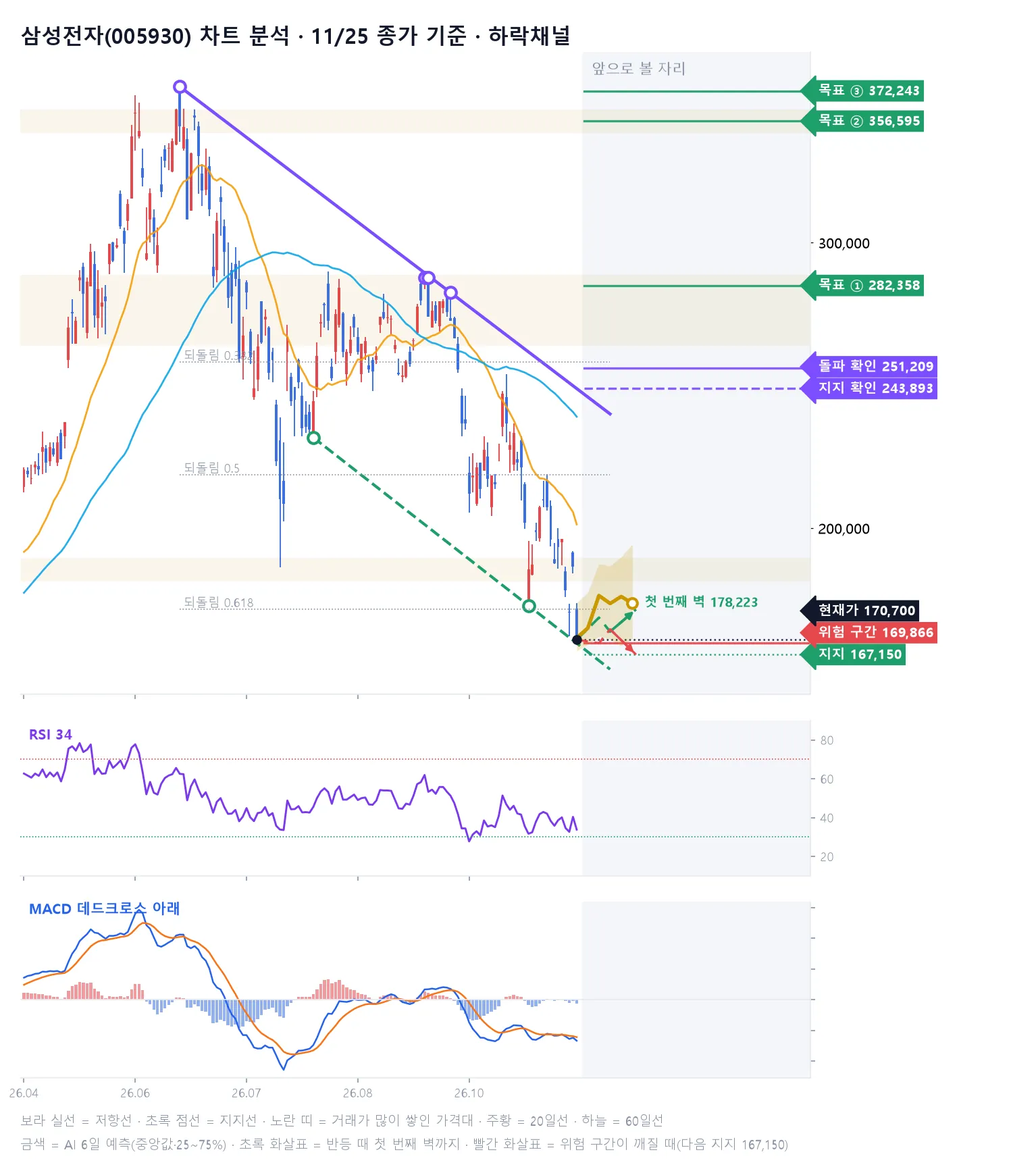
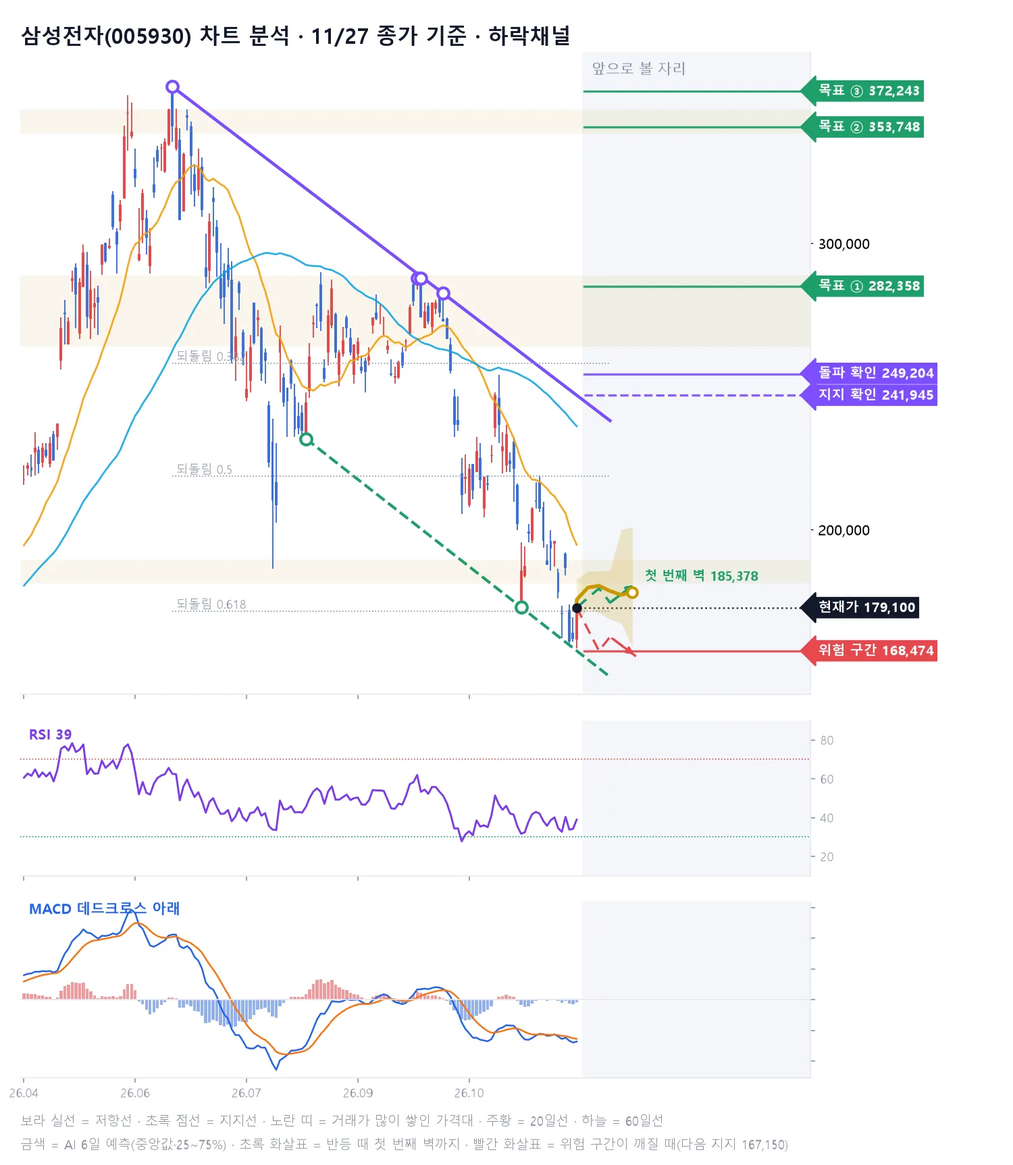
무료 공개 종목 페이지 자동 갱신

diff --git a/s/index.html b/s/index.html
@@ -93,8 +93,8 @@
     <h1>오늘의 무료 공개 종목</h1>
     <p style="margin:0;color:#B7BFD0">유튜브 쇼츠에 나온 종목의 AI 판정과 6일 예측 흐름을 누구나 볼 수 있어요</p>
   </section>
-  <div class="pk-list"><a class="card pk-item" href="BTC/"><span><b>비트코인(BTC)</b><small>코인 · 업비트 · 11/27 예측</small></span><b class="v-mx">혼돈</b></a><a class="card pk-item" href="ETH/"><span><b>이더리움(ETH)</b><small>코인 · 업비트 · 11/26 예측</small></span><b class="v-mx">혼돈</b></a><a class="card pk-item" href="AAVE/"><span><b>에이브(AAVE)</b><small>코인 · 업비트 · 11/28 예측</small></span><b class="v-mx">혼돈</b></a><a class="card pk-item" href="PUMP/"><span><b>펌프펀(PUMP)</b><small>코인 · 업비트 · 11/28 예측</small></span><b class="v-up">상승</b></a><a class="card pk-item" href="ZRO/"><span><b>레이어제로(ZRO)</b><small>코인 · 업비트 · 11/28 예측</small></span><b class="v-up">상승</b></a><a class="card pk-item" href="AVNT/"><span><b>베란타(AVNT)</b><small>코인 · 업비트 · 11/28 예측</small></span><b class="v-mx">혼돈</b></a><a class="card pk-item" href="UNI/"><span><b>유니스왑(UNI)</b><small>코인 · 업비트 · 11/28 예측</small></span><b class="v-up">상승</b></a><a class="card pk-item" href="INTUIT/"><span><b>인튜이트(INTUIT)</b><small>미국 주식 · 11/28 예측</small></span><b class="v-up">상승</b></a><a class="card pk-item" href="MICRON/"><span><b>마이크론(MICRON)</b><small>미국 주식 · 11/28 예측</small></span><b class="v-up">상승</b></a><a class="card pk-item" href="BITMINE/"><span><b>비트마인(BITMINE)</b><small>미국 주식 · 11/28 예측</small></span><b class="v-up">상승</b></a><a class="card pk-item" href="CIRCLE/"><span><b>서클(CIRCLE)</b><small>미국 주식 · 11/28 예측</small></span><b class="v-up">상승</b></a><a class="card pk-item" href="APPLIED_MATERIALS/"><span><b>어플라이드 머티리얼즈(APPLIED_MATERIALS)</b><small>미국 주식 · 11/28 예측</small></span><b class="v-up">상승</b></a><a class="card pk-item" href="SK%ED%95%98%EC%9D%B4%EB%8B%89%EC%8A%A4/"><span><b>SK하이닉스(000660)</b><small>코스피200 · 11/27 예측</small></span><b class="v-mx">혼돈</b></a><a class="card pk-item" href="%EC%82%BC%EC%84%B1%EC%A0%84%EC%9E%90/"><span><b>삼성전자(005930)</b><small>코스피200 · 11/26 예측</small></span><b class="v-mx">혼돈</b></a><a class="card pk-item" href="KB%EA%B8%88%EC%9C%B5/"><span><b>KB금융</b><small>코스피200 · 11/28 예측</small></span><b class="v-up">상승</b></a><a class="card pk-item" href="BNK%EA%B8%88%EC%9C%B5%EC%A7%80%EC%A3%BC/"><span><b>BNK금융지주</b><small>코스피200 · 11/28 예측</small></span><b class="v-up">상승</b></a><a class="card pk-item" href="KODEX%EA%B3%A8%EB%93%9C%EC%84%A0%EB%AC%BCH/"><span><b>KODEX골드선물H</b><small>코스피200 · 11/28 예측</small></span><b class="v-mx">혼돈</b></a><a class="card pk-item" href="%EC%82%BC%EC%84%B1%EC%A4%91%EA%B3%B5%EC%97%85/"><span><b>삼성중공업</b><small>코스피200 · 11/28 예측</small></span><b class="v-up">상승</b></a><a class="card pk-item" href="%ED%98%84%EB%8C%80%EA%B1%B4%EC%84%A4/"><span><b>현대건설</b><small>코스피200 · 11/28 예측</small></span><b class="v-up">상승</b></a></div>
-  <h2 style="font-size:17px;margin:12px 0 0">지난 공개 종목</h2><div class="pk-list"><a class="card pk-item" href="HANGSENG/"><span><b>HANGSENG</b><small>코스피200 · 11/28 예측</small></span><b class="v-mx">혼돈</b></a><a class="card pk-item" href="SHANGHAI/"><span><b>SHANGHAI</b><small>코스피200 · 11/28 예측</small></span><b class="v-mx">혼돈</b></a><a class="card pk-item" href="XLM/"><span><b>스텔라루멘(XLM)</b><small>코인 · 업비트 · 11/27 예측</small></span><b class="v-up">상승</b></a><a class="card pk-item" href="SUI/"><span><b>수이(SUI)</b><small>코인 · 업비트 · 11/27 예측</small></span><b class="v-up">상승</b></a><a class="card pk-item" href="JPY_KRW/"><span><b>엔/원 환율(JPY_KRW)</b><small>미국 주식 · 11/27 예측</small></span><b class="v-up">상승</b></a><a class="card pk-item" href="USD_KRW/"><span><b>원/달러 환율(USD_KRW)</b><small>미국 주식 · 11/27 예측</small></span><b class="v-up">상승</b></a><a class="card pk-item" href="KODEXWTI%EC%9B%90%EC%9C%A0%EC%84%A0%EB%AC%BCH/"><span><b>KODEXWTI원유선물H</b><small>코스피200 · 11/27 예측</small></span><b class="v-mx">혼돈</b></a><a class="card pk-item" href="LS/"><span><b>LS</b><small>코스피200 · 11/27 예측</small></span><b class="v-up">상승</b></a><a class="card pk-item" href="KOSPI/"><span><b>코스피(KOSPI)</b><small>코스피 지수 · 11/27 예측</small></span><b class="v-up">상승</b></a><a class="card pk-item" href="KOSDAQ/"><span><b>코스닥(KOSDAQ)</b><small>코스피 지수 · 11/27 예측</small></span><b class="v-up">상승</b></a><a class="card pk-item" href="ENS/"><span><b>이더리움네임서비스(ENS)</b><small>코인 · 업비트 · 11/26 예측</small></span><b class="v-up">상승</b></a><a class="card pk-item" href="1INCH/"><span><b>1인치네트워크(1INCH)</b><small>코인 · 업비트 · 11/26 예측</small></span><b class="v-mx">혼돈</b></a><a class="card pk-item" href="%EB%AF%B8%EB%9E%98%EC%97%90%EC%85%8B%EC%A6%9D%EA%B6%8C/"><span><b>미래에셋증권</b><small>코스피200 · 11/26 예측</small></span><b class="v-up">상승</b></a><a class="card pk-item" href="TIGER%EB%AF%B8%EA%B5%AD%ED%85%8C%ED%81%ACTOP10/"><span><b>TIGER미국테크TOP10</b><small>코스피200 · 11/26 예측</small></span><b class="v-up">상승</b></a><a class="card pk-item" href="KODEX200/"><span><b>KODEX200</b><small>코스피200 · 11/26 예측</small></span><b class="v-up">상승</b></a><a class="card pk-item" href="NVIDIA/"><span><b>엔비디아(NVDA)</b><small>미국 주식 · 11/25 예측</small></span><b class="v-up">상승</b></a><a class="card pk-item" href="CHZ/"><span><b>칠리즈(CHZ)</b><small>코인 · 업비트 · 11/25 예측</small></span><b class="v-up">상승</b></a><a class="card pk-item" href="ARK/"><span><b>아크(ARK)</b><small>코인 · 업비트 · 11/25 예측</small></span><b class="v-mx">혼돈</b></a><a class="card pk-item" href="RUSSELL2000/"><span><b>러셀2000(RUSSELL2000)</b><small>미국 주식 · 11/25 예측</small></span><b class="v-up">상승</b></a><a class="card pk-item" href="MONSTER_BEVERAGE/"><span><b>몬스터 베버리지(MONSTER_BEVERAGE)</b><small>미국 주식 · 11/25 예측</small></span><b class="v-up">상승</b></a><a class="card pk-item" href="GALAXY_DIGITAL/"><span><b>갤럭시 디지털(GALAXY_DIGITAL)</b><small>미국 주식 · 11/25 예측</small></span><b class="v-up">상승</b></a><a class="card pk-item" href="%EC%82%BC%EC%84%B1%EB%B0%94%EC%9D%B4%EC%98%A4%EB%A1%9C%EC%A7%81%EC%8A%A4/"><span><b>삼성바이오로직스</b><small>코스피200 · 11/25 예측</small></span><b class="v-mx">혼돈</b></a><a class="card pk-item" href="%EA%B3%A0%EB%A0%A4%EC%95%84%EC%97%B0/"><span><b>고려아연</b><small>코스피200 · 11/25 예측</small></span><b class="v-up">상승</b></a><a class="card pk-item" href="HD%ED%95%9C%EA%B5%AD%EC%A1%B0%EC%84%A0%ED%95%B4%EC%96%91/"><span><b>HD한국조선해양</b><small>코스피200 · 11/25 예측</small></span><b class="v-mx">혼돈</b></a><a class="card pk-item" href="SK%EC%9D%B4%EB%85%B8%EB%B2%A0%EC%9D%B4%EC%85%98/"><span><b>SK이노베이션</b><small>코스피200 · 11/25 예측</small></span><b class="v-up">상승</b></a><a class="card pk-item" href="ATH/"><span><b>에이셔(ATH)</b><small>코인 · 업비트 · 11/24 예측</small></span><b class="v-up">상승</b></a><a class="card pk-item" href="DATA/"><span><b>데이터네트워크(DATA)</b><small>코인 · 업비트 · 11/24 예측</small></span><b class="v-mx">혼돈</b></a><a class="card pk-item" href="KODEX2%EC%B0%A8%EC%A0%84%EC%A7%80%EC%82%B0%EC%97%85/"><span><b>KODEX2차전지산업</b><small>코스피200 · 11/24 예측</small></span><b class="v-up">상승</b></a><a class="card pk-item" href="TIGER2%EC%B0%A8%EC%A0%84%EC%A7%80%ED%85%8C%EB%A7%88/"><span><b>TIGER2차전지테마</b><small>코스피200 · 11/24 예측</small></span><b class="v-up">상승</b></a><a class="card pk-item" href="KODEX%EC%9E%90%EB%8F%99%EC%B0%A8/"><span><b>KODEX자동차</b><small>코스피200 · 11/24 예측</small></span><b class="v-up">상승</b></a><a class="card pk-item" href="%ED%95%9C%ED%99%94/"><span><b>한화</b><small>코스피200 · 11/24 예측</small></span><b class="v-up">상승</b></a><a class="card pk-item" href="SAND/"><span><b>샌드박스(SAND)</b><small>코인 · 업비트 · 11/23 예측</small></span><b class="v-up">상승</b></a><a class="card pk-item" href="MTL/"><span><b>메탈(MTL)</b><small>코인 · 업비트 · 11/22 예측</small></span><b class="v-up">상승</b></a><a class="card pk-item" href="TESLA/"><span><b>테슬라(TSLA)</b><small>미국 주식 · 11/21 예측</small></span><b class="v-up">상승</b></a><a class="card pk-item" href="PALANTIR/"><span><b>팔란티어(PALANTIR)</b><small>미국 주식 · 11/21 예측</small></span><b class="v-up">상승</b></a><a class="card pk-item" href="DOW/"><span><b>다우존스(DOW)</b><small>미국 주식 · 11/21 예측</small></span><b class="v-up">상승</b></a><a class="card pk-item" href="MERCADOLIBRE/"><span><b>메르카도리브레(MERCADOLIBRE)</b><small>미국 주식 · 11/21 예측</small></span><b class="v-up">상승</b></a><a class="card pk-item" href="%ED%95%9C%ED%99%94%EC%86%94%EB%A3%A8%EC%85%98/"><span><b>한화솔루션</b><small>코스피200 · 11/21 예측</small></span><b class="v-mx">혼돈</b></a><a class="card pk-item" href="KODEX%EB%AF%B8%EA%B5%AD%EB%82%98%EC%8A%A4%EB%8B%A5100TR/"><span><b>KODEX미국나스닥100TR</b><small>코스피200 · 11/21 예측</small></span><b class="v-up">상승</b></a><a class="card pk-item" href="ETC/"><span><b>이더리움클래식(ETC)</b><small>코인 · 업비트 · 11/21 예측</small></span><b class="v-up">상승</b></a><a class="card pk-item" href="MANA/"><span><b>디센트럴랜드(MANA)</b><small>코인 · 업비트 · 11/21 예측</small></span><b class="v-up">상승</b></a><a class="card pk-item" href="APT/"><span><b>앱토스(APT)</b><small>코인 · 업비트 · 11/20 예측</small></span><b class="v-up">상승</b></a><a class="card pk-item" href="STRAX/"><span><b>저트라(STRAX)</b><small>코인 · 업비트 · 11/20 예측</small></span><b class="v-up">상승</b></a><a class="card pk-item" href="%ED%95%9C%EC%A0%84%EA%B8%B0%EC%88%A0/"><span><b>한전기술</b><small>코스피200 · 11/20 예측</small></span><b class="v-up">상승</b></a><a class="card pk-item" href="STRATEGY/"><span><b>스트래티지(STRATEGY)</b><small>미국 주식 · 11/19 예측</small></span><b class="v-up">상승</b></a><a class="card pk-item" href="NETFLIX/"><span><b>넷플릭스(NETFLIX)</b><small>미국 주식 · 11/19 예측</small></span><b class="v-up">상승</b></a><a class="card pk-item" href="SHIB/"><span><b>시바이누(SHIB)</b><small>코인 · 업비트 · 11/19 예측</small></span><b class="v-up">상승</b></a><a class="card pk-item" href="TOKAMAK/"><span><b>토카막네트워크(TOKAMAK)</b><small>코인 · 업비트 · 11/19 예측</small></span><b class="v-up">상승</b></a><a class="card pk-item" href="TIGER%EB%AF%B8%EA%B5%ADSP500/"><span><b>TIGER미국SP500</b><small>코스피200 · 11/19 예측</small></span><b class="v-mx">혼돈</b></a><a class="card pk-item" href="%EA%B8%B0%EC%95%84/"><span><b>기아</b><small>코스피200 · 11/19 예측</small></span><b class="v-mx">혼돈</b></a><a class="card pk-item" href="%ED%98%84%EB%8C%80%EB%A1%9C%ED%85%9C/"><span><b>현대로템</b><small>코스피200 · 11/19 예측</small></span><b class="v-up">상승</b></a><a class="card pk-item" href="TIGER%EB%B0%98%EB%8F%84%EC%B2%B4TOP10/"><span><b>TIGER반도체TOP10</b><small>코스피200 · 11/19 예측</small></span><b class="v-up">상승</b></a><a class="card pk-item" href="MBL/"><span><b>무비블록(MBL)</b><small>코인 · 업비트 · 11/18 예측</small></span><b class="v-up">상승</b></a><a class="card pk-item" href="SC/"><span><b>시아코인(SC)</b><small>코인 · 업비트 · 11/18 예측</small></span><b class="v-up">상승</b></a><a class="card pk-item" href="ELF/"><span><b>엘프(ELF)</b><small>코인 · 업비트 · 11/18 예측</small></span><b class="v-up">상승</b></a><a class="card pk-item" href="NASDAQ100/"><span><b>나스닥100(NASDAQ100)</b><small>미국 주식 · 11/18 예측</small></span><b class="v-up">상승</b></a><a class="card pk-item" href="NASDAQ/"><span><b>나스닥(NASDAQ)</b><small>미국 주식 · 11/18 예측</small></span><b class="v-up">상승</b></a><a class="card pk-item" href="DB%ED%95%98%EC%9D%B4%ED%85%8D/"><span><b>DB하이텍</b><small>코스피200 · 11/18 예측</small></span><b class="v-up">상승</b></a><a class="card pk-item" href="%ED%95%9C%ED%99%94%EC%83%9D%EB%AA%85/"><span><b>한화생명</b><small>코스피200 · 11/18 예측</small></span><b class="v-mx">혼돈</b></a><a class="card pk-item" href="SOL/"><span><b>솔라나(SOL)</b><small>코인 · 업비트 · 11/17 예측</small></span><b class="v-up">상승</b></a><a class="card pk-item" href="HBAR/"><span><b>헤데라(HBAR)</b><small>코인 · 업비트 · 11/17 예측</small></span><b class="v-up">상승</b></a><a class="card pk-item" href="NEAR/"><span><b>니어프로토콜(NEAR)</b><small>코인 · 업비트 · 11/17 예측</small></span><b class="v-up">상승</b></a><a class="card pk-item" href="CISCO/"><span><b>시스코(CISCO)</b><small>미국 주식 · 11/17 예측</small></span><b class="v-up">상승</b></a><a class="card pk-item" href="DB%EC%86%90%ED%95%B4%EB%B3%B4%ED%97%98/"><span><b>DB손해보험</b><small>코스피200 · 11/17 예측</small></span><b class="v-up">상승</b></a><a class="card pk-item" href="NIKKEI225/"><span><b>NIKKEI225</b><small>코스피200 · 11/17 예측</small></span><b class="v-up">상승</b></a><a class="card pk-item" href="LG/"><span><b>LG</b><small>코스피200 · 11/17 예측</small></span><b class="v-up">상승</b></a><a class="card pk-item" href="NEO/"><span><b>네오(NEO)</b><small>코인 · 업비트 · 11/16 예측</small></span><b class="v-up">상승</b></a><a class="card pk-item" href="MED/"><span><b>메디블록(MED)</b><small>코인 · 업비트 · 11/16 예측</small></span><b class="v-up">상승</b></a><a class="card pk-item" href="VET/"><span><b>비체인(VET)</b><small>코인 · 업비트 · 11/16 예측</small></span><b class="v-up">상승</b></a><a class="card pk-item" href="TFUEL/"><span><b>쎄타퓨엘(TFUEL)</b><small>코인 · 업비트 · 11/16 예측</small></span><b class="v-up">상승</b></a><a class="card pk-item" href="SP500/"><span><b>S&amp;P500(SPX)</b><small>미국 주식 · 11/14 예측</small></span><b class="v-dn">하락</b></a><a class="card pk-item" href="BITCOIN_ETF_FIDELITY/"><span><b>비트코인 현물 피델리티(BITCOIN_ETF_FIDELITY)</b><small>미국 주식 · 11/14 예측</small></span><b class="v-up">상승</b></a><a class="card pk-item" href="BITCOIN_ETF_ISHARES/"><span><b>비트코인 현물 아이셰어즈(BITCOIN_ETF_ISHARES)</b><small>미국 주식 · 11/14 예측</small></span><b class="v-up">상승</b></a></div>
+  <div class="pk-list"><a class="card pk-item" href="BTC/"><span><b>비트코인(BTC)</b><small>코인 · 업비트 · 11/27 예측</small></span><b class="v-mx">혼돈</b></a><a class="card pk-item" href="AAVE/"><span><b>에이브(AAVE)</b><small>코인 · 업비트 · 11/28 예측</small></span><b class="v-mx">혼돈</b></a><a class="card pk-item" href="PUMP/"><span><b>펌프펀(PUMP)</b><small>코인 · 업비트 · 11/28 예측</small></span><b class="v-up">상승</b></a><a class="card pk-item" href="ZRO/"><span><b>레이어제로(ZRO)</b><small>코인 · 업비트 · 11/28 예측</small></span><b class="v-up">상승</b></a><a class="card pk-item" href="AVNT/"><span><b>베란타(AVNT)</b><small>코인 · 업비트 · 11/28 예측</small></span><b class="v-mx">혼돈</b></a><a class="card pk-item" href="UNI/"><span><b>유니스왑(UNI)</b><small>코인 · 업비트 · 11/28 예측</small></span><b class="v-up">상승</b></a><a class="card pk-item" href="INTUIT/"><span><b>인튜이트(INTUIT)</b><small>미국 주식 · 11/28 예측</small></span><b class="v-up">상승</b></a><a class="card pk-item" href="MICRON/"><span><b>마이크론(MICRON)</b><small>미국 주식 · 11/28 예측</small></span><b class="v-up">상승</b></a><a class="card pk-item" href="BITMINE/"><span><b>비트마인(BITMINE)</b><small>미국 주식 · 11/28 예측</small></span><b class="v-up">상승</b></a><a class="card pk-item" href="CIRCLE/"><span><b>서클(CIRCLE)</b><small>미국 주식 · 11/28 예측</small></span><b class="v-up">상승</b></a><a class="card pk-item" href="APPLIED_MATERIALS/"><span><b>어플라이드 머티리얼즈(APPLIED_MATERIALS)</b><small>미국 주식 · 11/28 예측</small></span><b class="v-up">상승</b></a><a class="card pk-item" href="SK%ED%95%98%EC%9D%B4%EB%8B%89%EC%8A%A4/"><span><b>SK하이닉스(000660)</b><small>코스피200 · 11/27 예측</small></span><b class="v-mx">혼돈</b></a><a class="card pk-item" href="%EC%82%BC%EC%84%B1%EC%A0%84%EC%9E%90/"><span><b>삼성전자(005930)</b><small>코스피200 · 11/28 예측</small></span><b class="v-mx">혼돈</b></a><a class="card pk-item" href="KB%EA%B8%88%EC%9C%B5/"><span><b>KB금융</b><small>코스피200 · 11/28 예측</small></span><b class="v-up">상승</b></a><a class="card pk-item" href="BNK%EA%B8%88%EC%9C%B5%EC%A7%80%EC%A3%BC/"><span><b>BNK금융지주</b><small>코스피200 · 11/28 예측</small></span><b class="v-up">상승</b></a><a class="card pk-item" href="KODEX%EA%B3%A8%EB%93%9C%EC%84%A0%EB%AC%BCH/"><span><b>KODEX골드선물H</b><small>코스피200 · 11/28 예측</small></span><b class="v-mx">혼돈</b></a><a class="card pk-item" href="%EC%82%BC%EC%84%B1%EC%A4%91%EA%B3%B5%EC%97%85/"><span><b>삼성중공업</b><small>코스피200 · 11/28 예측</small></span><b class="v-up">상승</b></a><a class="card pk-item" href="%ED%98%84%EB%8C%80%EA%B1%B4%EC%84%A4/"><span><b>현대건설</b><small>코스피200 · 11/28 예측</small></span><b class="v-up">상승</b></a></div>
+  <h2 style="font-size:17px;margin:12px 0 0">지난 공개 종목</h2><div class="pk-list"><a class="card pk-item" href="HANGSENG/"><span><b>HANGSENG</b><small>코스피200 · 11/28 예측</small></span><b class="v-mx">혼돈</b></a><a class="card pk-item" href="SHANGHAI/"><span><b>SHANGHAI</b><small>코스피200 · 11/28 예측</small></span><b class="v-mx">혼돈</b></a><a class="card pk-item" href="XLM/"><span><b>스텔라루멘(XLM)</b><small>코인 · 업비트 · 11/27 예측</small></span><b class="v-up">상승</b></a><a class="card pk-item" href="SUI/"><span><b>수이(SUI)</b><small>코인 · 업비트 · 11/27 예측</small></span><b class="v-up">상승</b></a><a class="card pk-item" href="JPY_KRW/"><span><b>엔/원 환율(JPY_KRW)</b><small>미국 주식 · 11/27 예측</small></span><b class="v-up">상승</b></a><a class="card pk-item" href="USD_KRW/"><span><b>원/달러 환율(USD_KRW)</b><small>미국 주식 · 11/27 예측</small></span><b class="v-up">상승</b></a><a class="card pk-item" href="KODEXWTI%EC%9B%90%EC%9C%A0%EC%84%A0%EB%AC%BCH/"><span><b>KODEXWTI원유선물H</b><small>코스피200 · 11/27 예측</small></span><b class="v-mx">혼돈</b></a><a class="card pk-item" href="LS/"><span><b>LS</b><small>코스피200 · 11/27 예측</small></span><b class="v-up">상승</b></a><a class="card pk-item" href="KOSPI/"><span><b>코스피(KOSPI)</b><small>코스피 지수 · 11/27 예측</small></span><b class="v-up">상승</b></a><a class="card pk-item" href="KOSDAQ/"><span><b>코스닥(KOSDAQ)</b><small>코스피 지수 · 11/27 예측</small></span><b class="v-up">상승</b></a><a class="card pk-item" href="ETH/"><span><b>이더리움(ETH)</b><small>코인 · 업비트 · 11/26 예측</small></span><b class="v-mx">혼돈</b></a><a class="card pk-item" href="ENS/"><span><b>이더리움네임서비스(ENS)</b><small>코인 · 업비트 · 11/26 예측</small></span><b class="v-up">상승</b></a><a class="card pk-item" href="1INCH/"><span><b>1인치네트워크(1INCH)</b><small>코인 · 업비트 · 11/26 예측</small></span><b class="v-mx">혼돈</b></a><a class="card pk-item" href="%EB%AF%B8%EB%9E%98%EC%97%90%EC%85%8B%EC%A6%9D%EA%B6%8C/"><span><b>미래에셋증권</b><small>코스피200 · 11/26 예측</small></span><b class="v-up">상승</b></a><a class="card pk-item" href="TIGER%EB%AF%B8%EA%B5%AD%ED%85%8C%ED%81%ACTOP10/"><span><b>TIGER미국테크TOP10</b><small>코스피200 · 11/26 예측</small></span><b class="v-up">상승</b></a><a class="card pk-item" href="KODEX200/"><span><b>KODEX200</b><small>코스피200 · 11/26 예측</small></span><b class="v-up">상승</b></a><a class="card pk-item" href="NVIDIA/"><span><b>엔비디아(NVDA)</b><small>미국 주식 · 11/25 예측</small></span><b class="v-up">상승</b></a><a class="card pk-item" href="CHZ/"><span><b>칠리즈(CHZ)</b><small>코인 · 업비트 · 11/25 예측</small></span><b class="v-up">상승</b></a><a class="card pk-item" href="ARK/"><span><b>아크(ARK)</b><small>코인 · 업비트 · 11/25 예측</small></span><b class="v-mx">혼돈</b></a><a class="card pk-item" href="RUSSELL2000/"><span><b>러셀2000(RUSSELL2000)</b><small>미국 주식 · 11/25 예측</small></span><b class="v-up">상승</b></a><a class="card pk-item" href="MONSTER_BEVERAGE/"><span><b>몬스터 베버리지(MONSTER_BEVERAGE)</b><small>미국 주식 · 11/25 예측</small></span><b class="v-up">상승</b></a><a class="card pk-item" href="GALAXY_DIGITAL/"><span><b>갤럭시 디지털(GALAXY_DIGITAL)</b><small>미국 주식 · 11/25 예측</small></span><b class="v-up">상승</b></a><a class="card pk-item" href="%EC%82%BC%EC%84%B1%EB%B0%94%EC%9D%B4%EC%98%A4%EB%A1%9C%EC%A7%81%EC%8A%A4/"><span><b>삼성바이오로직스</b><small>코스피200 · 11/25 예측</small></span><b class="v-mx">혼돈</b></a><a class="card pk-item" href="%EA%B3%A0%EB%A0%A4%EC%95%84%EC%97%B0/"><span><b>고려아연</b><small>코스피200 · 11/25 예측</small></span><b class="v-up">상승</b></a><a class="card pk-item" href="HD%ED%95%9C%EA%B5%AD%EC%A1%B0%EC%84%A0%ED%95%B4%EC%96%91/"><span><b>HD한국조선해양</b><small>코스피200 · 11/25 예측</small></span><b class="v-mx">혼돈</b></a><a class="card pk-item" href="SK%EC%9D%B4%EB%85%B8%EB%B2%A0%EC%9D%B4%EC%85%98/"><span><b>SK이노베이션</b><small>코스피200 · 11/25 예측</small></span><b class="v-up">상승</b></a><a class="card pk-item" href="ATH/"><span><b>에이셔(ATH)</b><small>코인 · 업비트 · 11/24 예측</small></span><b class="v-up">상승</b></a><a class="card pk-item" href="DATA/"><span><b>데이터네트워크(DATA)</b><small>코인 · 업비트 · 11/24 예측</small></span><b class="v-mx">혼돈</b></a><a class="card pk-item" href="KODEX2%EC%B0%A8%EC%A0%84%EC%A7%80%EC%82%B0%EC%97%85/"><span><b>KODEX2차전지산업</b><small>코스피200 · 11/24 예측</small></span><b class="v-up">상승</b></a><a class="card pk-item" href="TIGER2%EC%B0%A8%EC%A0%84%EC%A7%80%ED%85%8C%EB%A7%88/"><span><b>TIGER2차전지테마</b><small>코스피200 · 11/24 예측</small></span><b class="v-up">상승</b></a><a class="card pk-item" href="KODEX%EC%9E%90%EB%8F%99%EC%B0%A8/"><span><b>KODEX자동차</b><small>코스피200 · 11/24 예측</small></span><b class="v-up">상승</b></a><a class="card pk-item" href="%ED%95%9C%ED%99%94/"><span><b>한화</b><small>코스피200 · 11/24 예측</small></span><b class="v-up">상승</b></a><a class="card pk-item" href="SAND/"><span><b>샌드박스(SAND)</b><small>코인 · 업비트 · 11/23 예측</small></span><b class="v-up">상승</b></a><a class="card pk-item" href="MTL/"><span><b>메탈(MTL)</b><small>코인 · 업비트 · 11/22 예측</small></span><b class="v-up">상승</b></a><a class="card pk-item" href="TESLA/"><span><b>테슬라(TSLA)</b><small>미국 주식 · 11/21 예측</small></span><b class="v-up">상승</b></a><a class="card pk-item" href="PALANTIR/"><span><b>팔란티어(PALANTIR)</b><small>미국 주식 · 11/21 예측</small></span><b class="v-up">상승</b></a><a class="card pk-item" href="DOW/"><span><b>다우존스(DOW)</b><small>미국 주식 · 11/21 예측</small></span><b class="v-up">상승</b></a><a class="card pk-item" href="MERCADOLIBRE/"><span><b>메르카도리브레(MERCADOLIBRE)</b><small>미국 주식 · 11/21 예측</small></span><b class="v-up">상승</b></a><a class="card pk-item" href="%ED%95%9C%ED%99%94%EC%86%94%EB%A3%A8%EC%85%98/"><span><b>한화솔루션</b><small>코스피200 · 11/21 예측</small></span><b class="v-mx">혼돈</b></a><a class="card pk-item" href="KODEX%EB%AF%B8%EA%B5%AD%EB%82%98%EC%8A%A4%EB%8B%A5100TR/"><span><b>KODEX미국나스닥100TR</b><small>코스피200 · 11/21 예측</small></span><b class="v-up">상승</b></a><a class="card pk-item" href="ETC/"><span><b>이더리움클래식(ETC)</b><small>코인 · 업비트 · 11/21 예측</small></span><b class="v-up">상승</b></a><a class="card pk-item" href="MANA/"><span><b>디센트럴랜드(MANA)</b><small>코인 · 업비트 · 11/21 예측</small></span><b class="v-up">상승</b></a><a class="card pk-item" href="APT/"><span><b>앱토스(APT)</b><small>코인 · 업비트 · 11/20 예측</small></span><b class="v-up">상승</b></a><a class="card pk-item" href="STRAX/"><span><b>저트라(STRAX)</b><small>코인 · 업비트 · 11/20 예측</small></span><b class="v-up">상승</b></a><a class="card pk-item" href="%ED%95%9C%EC%A0%84%EA%B8%B0%EC%88%A0/"><span><b>한전기술</b><small>코스피200 · 11/20 예측</small></span><b class="v-up">상승</b></a><a class="card pk-item" href="STRATEGY/"><span><b>스트래티지(STRATEGY)</b><small>미국 주식 · 11/19 예측</small></span><b class="v-up">상승</b></a><a class="card pk-item" href="NETFLIX/"><span><b>넷플릭스(NETFLIX)</b><small>미국 주식 · 11/19 예측</small></span><b class="v-up">상승</b></a><a class="card pk-item" href="SHIB/"><span><b>시바이누(SHIB)</b><small>코인 · 업비트 · 11/19 예측</small></span><b class="v-up">상승</b></a><a class="card pk-item" href="TOKAMAK/"><span><b>토카막네트워크(TOKAMAK)</b><small>코인 · 업비트 · 11/19 예측</small></span><b class="v-up">상승</b></a><a class="card pk-item" href="TIGER%EB%AF%B8%EA%B5%ADSP500/"><span><b>TIGER미국SP500</b><small>코스피200 · 11/19 예측</small></span><b class="v-mx">혼돈</b></a><a class="card pk-item" href="%EA%B8%B0%EC%95%84/"><span><b>기아</b><small>코스피200 · 11/19 예측</small></span><b class="v-mx">혼돈</b></a><a class="card pk-item" href="%ED%98%84%EB%8C%80%EB%A1%9C%ED%85%9C/"><span><b>현대로템</b><small>코스피200 · 11/19 예측</small></span><b class="v-up">상승</b></a><a class="card pk-item" href="TIGER%EB%B0%98%EB%8F%84%EC%B2%B4TOP10/"><span><b>TIGER반도체TOP10</b><small>코스피200 · 11/19 예측</small></span><b class="v-up">상승</b></a><a class="card pk-item" href="MBL/"><span><b>무비블록(MBL)</b><small>코인 · 업비트 · 11/18 예측</small></span><b class="v-up">상승</b></a><a class="card pk-item" href="SC/"><span><b>시아코인(SC)</b><small>코인 · 업비트 · 11/18 예측</small></span><b class="v-up">상승</b></a><a class="card pk-item" href="ELF/"><span><b>엘프(ELF)</b><small>코인 · 업비트 · 11/18 예측</small></span><b class="v-up">상승</b></a><a class="card pk-item" href="NASDAQ100/"><span><b>나스닥100(NASDAQ100)</b><small>미국 주식 · 11/18 예측</small></span><b class="v-up">상승</b></a><a class="card pk-item" href="NASDAQ/"><span><b>나스닥(NASDAQ)</b><small>미국 주식 · 11/18 예측</small></span><b class="v-up">상승</b></a><a class="card pk-item" href="DB%ED%95%98%EC%9D%B4%ED%85%8D/"><span><b>DB하이텍</b><small>코스피200 · 11/18 예측</small></span><b class="v-up">상승</b></a><a class="card pk-item" href="%ED%95%9C%ED%99%94%EC%83%9D%EB%AA%85/"><span><b>한화생명</b><small>코스피200 · 11/18 예측</small></span><b class="v-mx">혼돈</b></a><a class="card pk-item" href="SOL/"><span><b>솔라나(SOL)</b><small>코인 · 업비트 · 11/17 예측</small></span><b class="v-up">상승</b></a><a class="card pk-item" href="HBAR/"><span><b>헤데라(HBAR)</b><small>코인 · 업비트 · 11/17 예측</small></span><b class="v-up">상승</b></a><a class="card pk-item" href="NEAR/"><span><b>니어프로토콜(NEAR)</b><small>코인 · 업비트 · 11/17 예측</small></span><b class="v-up">상승</b></a><a class="card pk-item" href="CISCO/"><span><b>시스코(CISCO)</b><small>미국 주식 · 11/17 예측</small></span><b class="v-up">상승</b></a><a class="card pk-item" href="DB%EC%86%90%ED%95%B4%EB%B3%B4%ED%97%98/"><span><b>DB손해보험</b><small>코스피200 · 11/17 예측</small></span><b class="v-up">상승</b></a><a class="card pk-item" href="NIKKEI225/"><span><b>NIKKEI225</b><small>코스피200 · 11/17 예측</small></span><b class="v-up">상승</b></a><a class="card pk-item" href="LG/"><span><b>LG</b><small>코스피200 · 11/17 예측</small></span><b class="v-up">상승</b></a><a class="card pk-item" href="NEO/"><span><b>네오(NEO)</b><small>코인 · 업비트 · 11/16 예측</small></span><b class="v-up">상승</b></a><a class="card pk-item" href="MED/"><span><b>메디블록(MED)</b><small>코인 · 업비트 · 11/16 예측</small></span><b class="v-up">상승</b></a><a class="card pk-item" href="VET/"><span><b>비체인(VET)</b><small>코인 · 업비트 · 11/16 예측</small></span><b class="v-up">상승</b></a><a class="card pk-item" href="TFUEL/"><span><b>쎄타퓨엘(TFUEL)</b><small>코인 · 업비트 · 11/16 예측</small></span><b class="v-up">상승</b></a><a class="card pk-item" href="SP500/"><span><b>S&amp;P500(SPX)</b><small>미국 주식 · 11/14 예측</small></span><b class="v-dn">하락</b></a><a class="card pk-item" href="BITCOIN_ETF_FIDELITY/"><span><b>비트코인 현물 피델리티(BITCOIN_ETF_FIDELITY)</b><small>미국 주식 · 11/14 예측</small></span><b class="v-up">상승</b></a><a class="card pk-item" href="BITCOIN_ETF_ISHARES/"><span><b>비트코인 현물 아이셰어즈(BITCOIN_ETF_ISHARES)</b><small>미국 주식 · 11/14 예측</small></span><b class="v-up">상승</b></a></div>
   <section class="card pk-cta">
     <b style="font-size:17px">전체 종목 순위와 모델별 차트는 회원 화면에서</b>
     <a class="btn big red" href="../login.html?next=index.html#signup" data-member="../index.html" data-member-text="내 포털로 가기">7일 무료로 시작하기</a>

diff --git a/s/삼성전자/index.html b/s/삼성전자/index.html
@@ -3,13 +3,13 @@
 <head>
 <meta charset="utf-8">
 <meta name="viewport" content="width=device-width, initial-scale=1">
-<title>삼성전자(005930) 전망 11/26 · AI 52개 모델 6일 예측 | AI 신호등</title>
-<meta name="description" content="11/26 기준 삼성전자(005930) 다음 거래일 AI 판정은 &#x27;혼돈&#x27;. 52개 모델 중 상승 22 · 하락 18. 6일 뒤 예측 중앙값 +5.3%. 52개 예측 모델의 6일 가격 흐름을 신호등으로 정리했어요.">
+<title>삼성전자(005930) 전망 11/28 · AI 52개 모델 6일 예측 | AI 신호등</title>
+<meta name="description" content="11/28 기준 삼성전자(005930) 다음 거래일 AI 판정은 &#x27;혼돈&#x27;. 52개 모델 중 상승 26 · 하락 17. 6일 뒤 예측 중앙값 +2.2%. 52개 예측 모델의 6일 가격 흐름을 신호등으로 정리했어요.">
 <link rel="canonical" href="https://www.ai-sinhodeung.co.kr/s/%EC%82%BC%EC%84%B1%EC%A0%84%EC%9E%90/">
 <meta property="og:type" content="article">
 <meta property="og:site_name" content="AI 신호등">
-<meta property="og:title" content="삼성전자(005930) 전망 11/26 · AI 52개 모델 6일 예측 | AI 신호등">
-<meta property="og:description" content="11/26 기준 삼성전자(005930) 다음 거래일 AI 판정은 &#x27;혼돈&#x27;. 52개 모델 중 상승 22 · 하락 18. 6일 뒤 예측 중앙값 +5.3%. 52개 예측 모델의 6일 가격 흐름을 신호등으로 정리했어요.">
+<meta property="og:title" content="삼성전자(005930) 전망 11/28 · AI 52개 모델 6일 예측 | AI 신호등">
+<meta property="og:description" content="11/28 기준 삼성전자(005930) 다음 거래일 AI 판정은 &#x27;혼돈&#x27;. 52개 모델 중 상승 26 · 하락 17. 6일 뒤 예측 중앙값 +2.2%. 52개 예측 모델의 6일 가격 흐름을 신호등으로 정리했어요.">
 <meta property="og:url" content="https://www.ai-sinhodeung.co.kr/s/%EC%82%BC%EC%84%B1%EC%A0%84%EC%9E%90/">
 <meta property="og:image" content="https://www.ai-sinhodeung.co.kr/assets/og-image.png">
 <meta property="og:locale" content="ko_KR">
@@ -76,7 +76,7 @@
 .ca-g.npn { border-color: #C99700 !important; background: #FFF8E1; } .ca-g.npn b { color: #A87E00 !important; }
 .ca-flash { animation: caf 1.6s ease-out; } @keyframes caf { 0%, 40% { box-shadow: 0 0 0 3px #C99700; } 100% { box-shadow: 0 0 0 0 transparent; } }
 </style>
-<script type="application/ld+json">{"@context": "https://schema.org", "@type": "Article", "headline": "삼성전자(005930) 전망 11/26 · AI 52개 모델 6일 예측 | AI 신호등", "description": "11/26 기준 삼성전자(005930) 다음 거래일 AI 판정은 '혼돈'. 52개 모델 중 상승 22 · 하락 18. 6일 뒤 예측 중앙값 +5.3%. 52개 예측 모델의 6일 가격 흐름을 신호등으로 정리했어요.", "dateModified": "2026-11-26", "inLanguage": "ko", "url": "https://www.ai-sinhodeung.co.kr/s/%EC%82%BC%EC%84%B1%EC%A0%84%EC%9E%90/", "publisher": {"@type": "Organization", "name": "AI 신호등", "url": "https://www.ai-sinhodeung.co.kr"}}</script>
+<script type="application/ld+json">{"@context": "https://schema.org", "@type": "Article", "headline": "삼성전자(005930) 전망 11/28 · AI 52개 모델 6일 예측 | AI 신호등", "description": "11/28 기준 삼성전자(005930) 다음 거래일 AI 판정은 '혼돈'. 52개 모델 중 상승 26 · 하락 17. 6일 뒤 예측 중앙값 +2.2%. 52개 예측 모델의 6일 가격 흐름을 신호등으로 정리했어요.", "dateModified": "2026-11-28", "inLanguage": "ko", "url": "https://www.ai-sinhodeung.co.kr/s/%EC%82%BC%EC%84%B1%EC%A0%84%EC%9E%90/", "publisher": {"@type": "Organization", "name": "AI 신호등", "url": "https://www.ai-sinhodeung.co.kr"}}</script>
 </head>
 <body class="home landing">
 <header class="topbar">
@@ -89,7 +89,7 @@
 
 <main class="pk">
   <section class="pk-hero on-night">
-    <small>코스피200 · 11/26 예측 · AI 모델 52개</small>
+    <small>코스피200 · 11/28 예측 · AI 모델 52개</small>
     <h1>삼성전자(005930) 전망</h1>
   </section>
 
@@ -97,25 +97,25 @@
     <div class="pk-verdict">
       <div class="lamp mx" aria-hidden="true"><i></i><i></i><i></i></div>
       <div><small style="color:var(--muted);font-size:12.5px">다음 거래일(D+1) AI 판정</small><br>
-        <b class="v-mx">혼돈</b><br><span>52개 모델 중 상승 22 · 하락 18</span></div>
+        <b class="v-mx">혼돈</b><br><span>52개 모델 중 상승 26 · 하락 17</span></div>
     </div>
     <p style="margin:10px 0 0;color:var(--sub);font-size:14px">참고: D+3 고점 후 되돌림</p>
   </section>
 
   <section class="card">
     <h3 style="margin-bottom:6px">6일 예측 흐름</h3>
-    <p class="hint" style="margin:0 0 10px;font-size:13px">기준가 170,700원 · 6일 뒤 예측 중앙값 <b class="v-mx">+5.3%</b></p>
+    <p class="hint" style="margin:0 0 10px;font-size:13px">기준가 179,100원 · 6일 뒤 예측 중앙값 <b class="v-mx">+2.2%</b></p>
     <svg viewBox="0 0 520 300" role="img" aria-label="최근 8일 종가와 앞으로 6일 예측 범위" class="pk-chart">
   <line x1="277.1" y1="30" x2="277.1" y2="266" stroke="#C5CAD6" stroke-dasharray="4 4"/>
-  <polygon points="277.1,230.8 315.2,165.7 353.4,147.1 391.5,94.2 429.7,98.0 467.8,80.6 506.0,56.0 506.0,228.5 467.8,241.3 429.7,230.1 391.5,225.0 353.4,238.8 315.2,249.7 277.1,230.8" fill="#C99700" fill-opacity=".14"/>
-  <polyline points="10.0,47.0 48.2,92.8 86.3,61.8 124.5,46.3 162.6,143.5 200.8,182.9 238.9,99.1 277.1,230.8" fill="none" stroke="#12182B" stroke-width="2.4" stroke-linejoin="round"/>
-  <polyline points="277.1,230.8 315.2,227.6 353.4,210.7 391.5,152.9 429.7,167.3 467.8,154.7 506.0,167.1" fill="none" stroke="#C99700" stroke-width="3" stroke-linejoin="round"/>
-  <circle cx="277.1" cy="230.8" r="4.5" fill="#12182B"/>
-  <circle cx="506.0" cy="167.1" r="6" fill="#fff" stroke="#C99700" stroke-width="3"/>
-  <text x="506" y="20" text-anchor="end" font-size="18" font-weight="700" fill="#C99700">6일 뒤 +5.3%</text>
-  <text x="10" y="290" font-size="15" fill="#8A93A6">11-16</text>
-  <text x="277.1" y="290" font-size="15" fill="#12182B" text-anchor="middle" font-weight="600">11-25 기준</text>
-  <text x="506" y="290" font-size="15" fill="#8A93A6" text-anchor="end">12-01</text>
+  <polygon points="277.1,187.4 315.2,139.4 353.4,125.3 391.5,125.8 429.7,123.7 467.8,51.3 506.0,46.3 506.0,249.7 467.8,212.7 429.7,206.4 391.5,196.2 353.4,188.7 315.2,211.0 277.1,187.4" fill="#C99700" fill-opacity=".14"/>
+  <polyline points="10.0,85.9 48.2,71.6 86.3,161.4 124.5,197.8 162.6,120.4 200.8,242.0 238.9,238.1 277.1,187.4" fill="none" stroke="#12182B" stroke-width="2.4" stroke-linejoin="round"/>
+  <polyline points="277.1,187.4 315.2,174.3 353.4,153.9 391.5,150.7 429.7,159.7 467.8,166.3 506.0,161.5" fill="none" stroke="#C99700" stroke-width="3" stroke-linejoin="round"/>
+  <circle cx="277.1" cy="187.4" r="4.5" fill="#12182B"/>
+  <circle cx="506.0" cy="161.5" r="6" fill="#fff" stroke="#C99700" stroke-width="3"/>
+  <text x="506" y="20" text-anchor="end" font-size="18" font-weight="700" fill="#C99700">6일 뒤 +2.2%</text>
+  <text x="10" y="290" font-size="15" fill="#8A93A6">11-18</text>
+  <text x="277.1" y="290" font-size="15" fill="#12182B" text-anchor="middle" font-weight="600">11-27 기준</text>
+  <text x="506" y="290" font-size="15" fill="#8A93A6" text-anchor="end">12-03</text>
 </svg>
     <div class="pk-legend"><span><i style="background:#12182B"></i>실제 종가</span><span><i style="background:#C99700"></i>모델 예측 중앙값</span><span><i style="background:#C99700;height:8px;opacity:.2"></i>모델 25~75% 범위</span></div>
   </section>
@@ -129,9 +129,9 @@
   </section>
 
   <section class="card ca" id="ca">
-    <h3 style="margin:0">삼성전자(005930) 차트 분석 <small style="color:var(--muted);font-weight:400;font-size:13px">11/25 종가 170,700원 기준</small></h3>
+    <h3 style="margin:0">삼성전자(005930) 차트 분석 <small style="color:var(--muted);font-weight:400;font-size:13px">11/27 종가 179,100원 기준</small></h3>
     <div class="ca-strip" aria-label="패턴 한눈에 (진한 색 = 해당, 빗금 = 근접)" onclick="var b=event.target.closest('button[data-k]');if(!b)return;var c=[].find.call(document.querySelectorAll('#ca .ca-g[data-k]'),function(d){return d.getAttribute('data-k')===b.getAttribute('data-k')});if(!c)return;c.scrollIntoView({behavior:'smooth',block:'center'});c.classList.remove('ca-flash');void c.offsetWidth;c.classList.add('ca-flash')"><button type="button" class="d" data-k="이동평균" title="이동평균 · 해당">역배열</button><span class="sep"></span><button type="button" class="off" data-k="역헤드앤숄더" title="역헤드앤숄더 · 아님">역헤드앤숄더</button><button type="button" class="off" data-k="헤드앤숄더" title="헤드앤숄더 · 아님">헤드앤숄더</button><button type="button" class="off" data-k="컵앤핸들" title="컵앤핸들 · 아님">컵앤핸들</button><button type="button" class="off" data-k="이중 바닥(W)" title="이중 바닥(W) · 아님">이중 바닥</button><button type="button" class="off" data-k="이중 천장(M)" title="이중 천장(M) · 아님">이중 천장</button><button type="button" class="off" data-k="하락쐐기" title="하락쐐기 · 아님">하락쐐기</button><button type="button" class="off" data-k="상승쐐기" title="상승쐐기 · 아님">상승쐐기</button><button type="button" class="off" data-k="3 Tight Closes" title="3 Tight Closes · 아님">3 Tight Closes</button><button type="button" class="off" data-k="상승 페넌트" title="상승 페넌트 · 아님">상승 페넌트</button><button type="button" class="off" data-k="상승 깃발" title="상승 깃발 · 아님">상승 깃발</button><button type="button" class="off" data-k="과장 상승 다이버전스" title="과장 상승 다이버전스 · 아님">과장 상승 다이버</button></div><small style="color:var(--muted);font-size:12px;margin-top:-8px">진한 색 = 해당 · 빗금 = 근접 · 누르면 아래 설명으로 가요</small>
-    <a href="chart.webp?v=2026-11-25" target="_blank" rel="noopener"><img src="chart.webp?v=2026-11-25" alt="삼성전자(005930) 차트 분석: 저항선·지지선·앞으로 볼 자리" loading="lazy"></a>
+    <a href="chart.webp?v=2026-11-27" target="_blank" rel="noopener"><img src="chart.webp?v=2026-11-27" alt="삼성전자(005930) 차트 분석: 저항선·지지선·앞으로 볼 자리" loading="lazy"></a>
     <small style="color:var(--muted);font-size:12px;margin-top:-8px">그림을 누르면 크게 볼 수 있어요</small>
     <div class="ca-pat">지금 모양: <b>하락채널</b><br>고점·저점이 나란히 낮아지는 통로 — 위쪽 선을 넘으면 하락 통로 탈출이에요</div>
     
@@ -145,9 +145,9 @@
       <small style="color:var(--muted);font-size:12px">모양 0/40 · 점검표 18/42 · 시장 12/18 · AI 넣은 점수 = 차트×0.8 + AI 판정(상승 20·혼돈 10·하락 0) · 70↑ 강 · 40~69 중 · 40↓ 약<br>
       조건이 몇 개 맞는지 센 점수예요. 앞으로 오를 확률이 아니에요.</small>
     </div>
-    <div class="ca-combo"><b>🤖 AI 예측과 같이 보면</b><br>다음 거래일 AI 판정 &#x27;혼돈&#x27;. AI 6일 예측 중앙값은 +5.3%(179,748)로, 저항선(243,893)까지는 못 미쳐요 → 당분간은 돌파보다 아래 지지 자리를 지키는지 보는 구간이에요.</div>
-    <div><h4 style="margin:0 0 8px">앞으로 볼 자리</h4><div class="ca-lv"><div class="goal"><b>목표 구간 ③</b><span>372,243원</span><small>수평 고점</small></div><div class="goal"><b>목표 구간 ②</b><span>356,595원</span><small>패턴 높이</small></div><div class="goal"><b>목표 구간 ①</b><span>282,358원</span><small>수평 고점</small></div><div class="watch"><b>돌파 확인 자리</b><span>251,209원</span><small>종가가 저항선보다 3% 넘게 위에서 마감 (돌파 뒤 236,576 아래로 다시 마감하면 돌파 실패)</small></div><div class="watch"><b>지지 확인 자리</b><span>243,893원</span><small>돌파 뒤 저항선이 받쳐 주는지</small></div><div class="risk"><b>위험 구간</b><span>169,866원</span><small>지금 가격 아래 지지선. 이 아래로 마감하면 하락 흐름이 이어질 수 있어요 — 깨지면 다음 지지 167,150까지 열려 있어요</small></div></div></div>
-    <div><h4 style="margin:0 0 6px">해석</h4><ul><li>저항선이 하루에 약 0.4%씩 내려오고 있어서, &#x27;돌파 확인 자리&#x27;도 날마다 조금씩 낮아져요. 저항선까지 거리가 있어서, 그림의 초록 점선은 바로 위 첫 번째 벽까지 반등할 때의 흐름이에요.</li><li>지금 가격은 저항선보다 43% 아래예요. 아직 돌파를 말하기엔 거리가 있어요.</li><li>직전 큰 상승의 0.64만큼만 되돌린 상태 — 0.618 안이라 상승 흐름 속 조정으로 봐요.</li><li>아래에서 받쳐 줄 자리: 169,866 / 167,150</li><li>코스피 지수 상태: 60일선 아래 역배열 → 시장 전체가 약해서 돌파가 나와도 한 번 더 확인이 필요해요</li></ul></div>
+    <div class="ca-combo"><b>🤖 AI 예측과 같이 보면</b><br>다음 거래일 AI 판정 &#x27;혼돈&#x27;. AI 6일 예측 중앙값은 +2.2%(183,084)로, 저항선(241,945)까지는 못 미쳐요 → 당분간은 돌파보다 아래 지지 자리를 지키는지 보는 구간이에요.</div>
+    <div><h4 style="margin:0 0 8px">앞으로 볼 자리</h4><div class="ca-lv"><div class="goal"><b>목표 구간 ③</b><span>372,243원</span><small>수평 고점</small></div><div class="goal"><b>목표 구간 ②</b><span>353,748원</span><small>패턴 높이</small></div><div class="goal"><b>목표 구간 ①</b><span>282,358원</span><small>수평 고점</small></div><div class="watch"><b>돌파 확인 자리</b><span>249,204원</span><small>종가가 저항선보다 3% 넘게 위에서 마감 (돌파 뒤 234,687 아래로 다시 마감하면 돌파 실패)</small></div><div class="watch"><b>지지 확인 자리</b><span>241,945원</span><small>돌파 뒤 저항선이 받쳐 주는지</small></div><div class="risk"><b>위험 구간</b><span>168,474원</span><small>지금 가격 아래 지지선. 이 아래로 마감하면 하락 흐름이 이어질 수 있어요 — 깨지면 다음 지지 167,150까지 열려 있어요</small></div></div></div>
+    <div><h4 style="margin:0 0 6px">해석</h4><ul><li>저항선이 하루에 약 0.4%씩 내려오고 있어서, &#x27;돌파 확인 자리&#x27;도 날마다 조금씩 낮아져요. 저항선까지 거리가 있어서, 그림의 초록 점선은 바로 위 첫 번째 벽까지 반등할 때의 흐름이에요.</li><li>지금 가격은 저항선보다 35% 아래예요. 아직 돌파를 말하기엔 거리가 있어요.</li><li>직전 큰 상승의 0.65만큼만 되돌린 상태 — 0.618 안이라 상승 흐름 속 조정으로 봐요.</li><li>아래에서 받쳐 줄 자리: 168,474 / 167,150</li><li>코스피 지수 상태: 60일선 아래 역배열 → 시장 전체가 약해서 돌파가 나와도 한 번 더 확인이 필요해요</li></ul></div>
     <p class="pk-note" style="text-align:left">차트 모양을 규칙대로 자동 분석한 참고 자료예요. 특정 가격에 사고팔라는 권유가 아니며, 가격이 어느 자리에 있는지 보는 용도로만 써 주세요.</p>
   </section>
 
